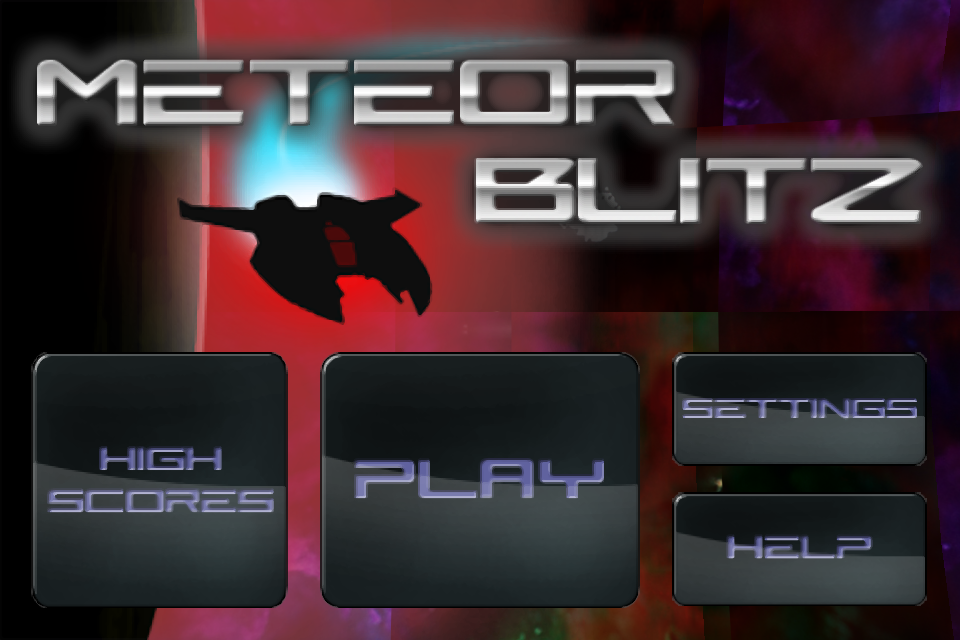
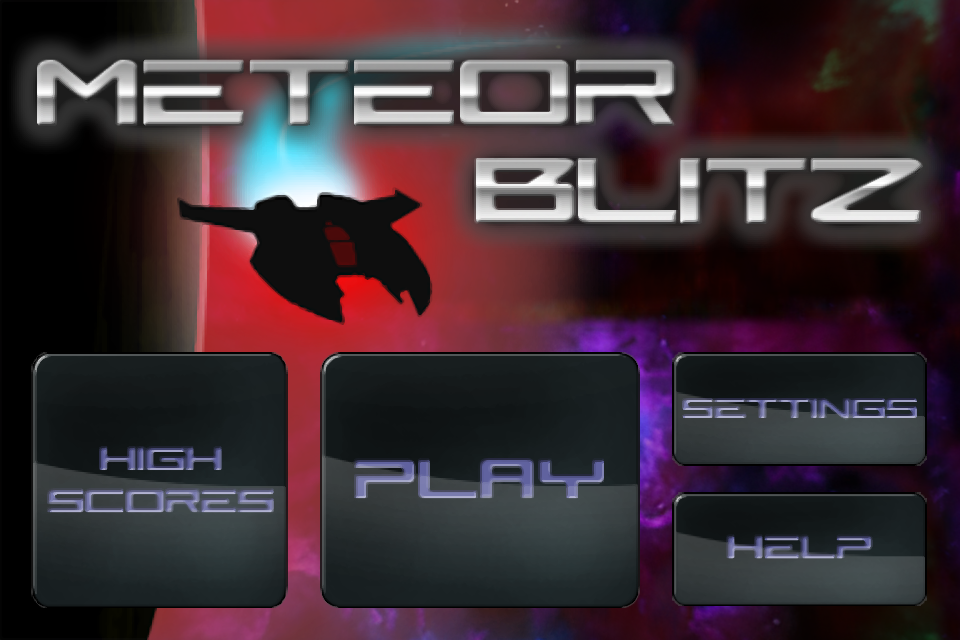
fix: seamless backdrop textures, controller focus and run-end name entry

diff --git a/src/main.rs b/src/main.rs
@@ -201,6 +201,7 @@ async fn load_menu_assets() -> MenuAssets {
         space: load_texture_file(&base).await,
         fog: load_texture_file(&decal).await,
         horizon: load_ui("horizon").await,
+        white: Texture2D::from_rgba8(1, 1, &[255, 255, 255, 255]),
     };
     for tex in [&menu.space, &menu.fog] {
         tex.set_filter(FilterMode::Linear);
@@ -287,7 +288,6 @@ fn build_menu(kind: MenuKind, ui: &Ui, progress: &Progress, fade_backdrop: bool)
             ui["labelSelectMode"].clone(),
             0.0,
             vec![
-                back(2),
                 button(
                     ui,
                     "buttonArcade",
@@ -308,6 +308,7 @@ fn build_menu(kind: MenuKind, ui: &Ui, progress: &Progress, fade_backdrop: bool)
                     128.0,
                     1,
                 ),
+                back(2),
             ],
             fade_backdrop,
         ),
@@ -321,7 +322,7 @@ fn build_menu(kind: MenuKind, ui: &Ui, progress: &Progress, fade_backdrop: bool)
                 (176.5, 185.0, 127.0),
                 (320.0, 185.0, 130.0),
             ];
-            let mut buttons = vec![back(7)];
+            let mut buttons = Vec::new();
             for (i, (x, y, w)) in slots.into_iter().enumerate() {
                 let world = i + 1;
                 let unlocked = i == 0 || progress.unlocked >= i * 5;
@@ -341,6 +342,7 @@ fn build_menu(kind: MenuKind, ui: &Ui, progress: &Progress, fade_backdrop: bool)
                     if unlocked { world as u8 } else { 0 },
                 ));
             }
+            buttons.push(back(7));
             MenuScreen::new(ui["labelSelectWorld"].clone(), -9.0, buttons, fade_backdrop)
         }
         MenuKind::Stage(world) => {
@@ -351,7 +353,7 @@ fn build_menu(kind: MenuKind, ui: &Ui, progress: &Progress, fade_backdrop: bool)
                 (100.0, 185.0),
                 (250.0, 185.0),
             ];
-            let mut buttons = vec![back(6)];
+            let mut buttons = Vec::new();
             for (i, (x, y)) in slots.into_iter().enumerate() {
                 let stage = i + 1;
                 let unlocked = i == 0 || progress.unlocked >= world * 5 + i;
@@ -371,6 +373,7 @@ fn build_menu(kind: MenuKind, ui: &Ui, progress: &Progress, fade_backdrop: bool)
                     if unlocked { stage as u8 } else { 0 },
                 ));
             }
+            buttons.push(back(6));
             MenuScreen::new(ui["labelSelectStage"].clone(), -9.0, buttons, fade_backdrop)
         }
         // Tutorial page: the original's control diagram (`keyboard.png`, the
@@ -382,9 +385,9 @@ fn build_menu(kind: MenuKind, ui: &Ui, progress: &Progress, fade_backdrop: bool)
             ui["labelSelectMode"].clone(),
             0.0,
             vec![
-                back(2),
                 button(ui, "buttonArcade", "buttonArcadeDown", 47.0, 118.0, 175.0, 128.0, 0),
                 button(ui, "buttonSurvival", "buttonSurvivalDown", 258.0, 118.0, 175.0, 128.0, 1),
+                back(2),
             ],
             fade_backdrop,
         ),
@@ -401,9 +404,9 @@ fn build_menu(kind: MenuKind, ui: &Ui, progress: &Progress, fade_backdrop: bool)
                 ui[label].clone(),
                 0.0,
                 vec![
-                    back(6),
                     button(ui, "buttonLocal", "buttonLocalDown", 16.0, 258.0, 126.0, 54.0, 1),
                     button(ui, "buttonGlobal", "buttonGlobalDown", 338.0, 258.0, 126.0, 54.0, 2),
+                    back(6),
                 ],
                 fade_backdrop,
             )
@@ -718,10 +721,18 @@ async fn main() {
                 "scores-survival" => MenuKind::ScoresTable(1, false),
                 "scores-global" => MenuKind::ScoresTable(0, true),
                 "main" => MenuKind::Main,
+                "world" => MenuKind::World,
+                "stage" => MenuKind::Stage(0),
                 _ => MenuKind::Main,
             };
             screen = Screen::Menu(kind);
             menu_screen = build_menu(kind, &ui, &progress, true);
+            // MB_FOCUS=<n> shows the controller focus frame in captures.
+            if let Ok(v) = std::env::var("MB_FOCUS") {
+                if let Ok(i) = v.parse::<usize>() {
+                    menu_screen.set_focus(Some(i));
+                }
+            }
         }
     }
     // MB_PAUSE opens a popup for screenshot runs.
@@ -999,7 +1010,14 @@ async fn main() {
                                     ));
                                 }
                             }
-                        } else if scores.qualifies(run.survival, run.score) {
+                        } else if {
+                            // The name step belongs to the end of a run, not
+                            // to a stage clear that continues. Asking after
+                            // every stage interrupted the run mid-play.
+                            let run_ends = !run.cleared
+                                || game.as_ref().is_some_and(|g| g.next_stage().is_none());
+                            run_ends && scores.qualifies(run.survival, run.score)
+                        } {
                             screen = Screen::NameEntry(NameEntry::new(run.score));
                             pending = Some(run);
                         } else {

diff --git a/tools/upscale4x.py b/tools/upscale4x.py
@@ -2,7 +2,11 @@
 """Upscale the original graphics for the HD render path.
 
 - Terrain/fog/space/horizon textures: Real-ESRGAN x4plus when the ncnn
-  binary is available, otherwise Lanczos, at 2x. The backdrop mesh samples
+  binary is available, otherwise Lanczos, at 2x. The ncnn tool is run with
+  one tile (`-t 1024`): its automatic 400 px tiling left visible seams.
+  The backdrop mesh wraps these textures, so the ESRGAN detail is faded into
+  a periodic Lanczos base near the edges; otherwise the upscaled edges do not
+  match and the repeats show as a checkerboard. The backdrop mesh samples
   these minified across the screen and macroquad builds no mipmaps, so a 4x
   copy (2048x2048) stalls the GPU and drops the frame rate; 2x holds 60 Hz.
 - UI art, sprites and the bitmap font: xBR 4x (pixel-art aware), with the
@@ -73,7 +77,7 @@ def esrgan_upscale(src: Path, dst: Path, esrgan: Path, scale: int) -> bool:
     subprocess.run(
         [str(esrgan), "-i", str(src), "-o", str(dst), "-s", str(scale),
          "-m", str(esrgan.parent / "models"), "-n", "realesrgan-x4plus",
-         "-f", "png"],
+         "-f", "png", "-t", "1024"],
         check=True, stdout=subprocess.DEVNULL, stderr=subprocess.DEVNULL,
     )
     return True
@@ -93,14 +97,58 @@ def verify(src: Path, dst: Path) -> float:
     return float(np.abs(a - b).mean())
 
 
+def tiled3(im: Image.Image) -> Image.Image:
+    """A 3x3 copy: resampling its centre makes the result periodic."""
+    w, h = im.size
+    tiled = Image.new(im.mode, (w * 3, h * 3))
+    for dy in range(3):
+        for dx in range(3):
+            tiled.paste(im, (dx * w, dy * h))
+    return tiled
+
+
+def seamless_base(src: Path, scale: int) -> Image.Image:
+    im = Image.open(src)
+    w, h = im.size
+    big = tiled3(im).resize((w * 3 * scale, h * 3 * scale), Image.LANCZOS)
+    return big.crop((w * scale, h * scale, w * 2 * scale, h * 2 * scale))
+
+
+def blend_seamless(detail: Image.Image, base: Image.Image, band: int) -> Image.Image:
+    """Keeps the ESRGAN detail inside, and the periodic base at the edges."""
+    a = np.asarray(detail.convert("RGBA"), dtype=np.float32)
+    b = np.asarray(base.convert("RGBA"), dtype=np.float32)
+    h, w = a.shape[:2]
+    y = np.arange(h, dtype=np.float32)
+    x = np.arange(w, dtype=np.float32)
+    dx = np.minimum(x, w - 1 - x) / band
+    dy = np.minimum(y, h - 1 - y) / band
+    m = np.clip(np.minimum(dx[None, :], dy[:, None]), 0.0, 1.0)
+    m = (m * m * (3.0 - 2.0 * m))[..., None]
+    out = np.clip(a * m + b * (1.0 - m), 0.0, 255.0).astype(np.uint8)
+    return Image.fromarray(out, "RGBA")
+
+
+def edge_diff(dst: Path) -> float:
+    a = np.asarray(Image.open(dst).convert("RGB"), dtype=np.float32)
+    return float((np.abs(a[:, 0] - a[:, -1]).mean() + np.abs(a[0, :] - a[-1, :]).mean()) / 2.0)
+
+
 def upscale_textures(esrgan: Path) -> None:
     # 2x: the backdrop mesh minifies these and macroquad has no mipmaps.
     src = ROOT / "original" / "textures"
     for p in sorted(src.glob("*.png")):
         dst = OUT / "textures" / p.name
-        if not esrgan_upscale(p, dst, esrgan, 2):
-            lanczos(p, dst, 2)
-        print("texture", p.name, "->", dst.relative_to(ROOT), "diff", round(verify(p, dst), 2))
+        dst.parent.mkdir(parents=True, exist_ok=True)
+        with tempfile.TemporaryDirectory() as tmp:
+            detail = Path(tmp) / "detail.png"
+            if esrgan_upscale(p, detail, esrgan, 2):
+                out = blend_seamless(Image.open(detail), seamless_base(p, 2), 24)
+            else:
+                out = seamless_base(p, 2)
+            out.save(dst, optimize=True)
+        print("texture", p.name, "->", dst.relative_to(ROOT),
+              "diff", round(verify(p, dst), 2), "edge", round(edge_diff(dst), 2))
 
 
 def upscale_dir(src: Path, dst_dir: Path, label: str) -> None:

diff --git a/src/menu.rs b/src/menu.rs
@@ -25,6 +25,8 @@ pub struct MenuAssets {
     pub space: Texture2D,
     pub fog: Texture2D,
     pub horizon: Texture2D,
+    /// A 1x1 white texture for the controller focus frame.
+    pub white: Texture2D,
 }
 
 /// The shared menu backdrop's scroll (`BasicScreen::update` drifts it 50/s).
@@ -93,6 +95,11 @@ impl MenuScreen {
             pressed: None,
             focus: None,
         }
+    }
+
+    /// Sets the controller focus, e.g. for screenshot runs.
+    pub fn set_focus(&mut self, f: Option<usize>) {
+        self.focus = f;
     }
 
     /// Advances the transition and returns the event of a button pressed
@@ -172,7 +179,46 @@ impl MenuScreen {
             let tex = if lit { &b.down } else { &b.up };
             draw_quad(tex, b.rect.x, b.rect.y, 1.0, self.fx.z, color);
         }
+        // The original was touch-only; the port adds controller focus, so it
+        // has to be visible. Some screens (world/stage) reuse one texture for
+        // up and down, where the pressed frame alone shows nothing.
+        if let Some(f) = self.focus {
+            if let Some(b) = self.buttons.get(f) {
+                let c = Color::new(1.0, 1.0, 1.0, 0.7 * self.fx.alpha);
+                frame(canvas, assets, b.rect.x, b.rect.y, b.rect.w, b.rect.h, self.fx.z, c);
+            }
+        }
     }
+}
+
+/// A 1 px selection frame, matching the pause popup's controller selection.
+fn frame(
+    canvas: &Canvas,
+    assets: &MenuAssets,
+    x: f32,
+    y: f32,
+    w: f32,
+    h: f32,
+    z: f32,
+    color: Color,
+) {
+    let quad = |qx: f32, qy: f32, qw: f32, qh: f32| {
+        canvas.draw_triangles(
+            vec![
+                Vertex::new(qx, qy, z, 0.0, 0.0, color),
+                Vertex::new(qx + qw, qy, z, 1.0, 0.0, color),
+                Vertex::new(qx + qw, qy + qh, z, 1.0, 1.0, color),
+                Vertex::new(qx, qy + qh, z, 0.0, 1.0, color),
+            ],
+            vec![0, 1, 2, 0, 2, 3],
+            Some(&assets.white),
+            false,
+        );
+    };
+    quad(x, y, w, 1.0);
+    quad(x, y + h - 1.0, w, 1.0);
+    quad(x, y, 1.0, h);
+    quad(x + w - 1.0, y, 1.0, h);
 }
 
 /// `BasicScreen` state: the fade/fly-in on entry and fade-out on exit.

diff --git a/AGENTS.md b/AGENTS.md
@@ -38,14 +38,14 @@ Done (faithful to the binary unless noted):
 - Deliberate change from the original: the planet backdrop scrolls at the play plane's screen speed, so rocks stay glued to the ground (`gfx::glued_scroll`). The original's rate let them slide.
 - Performance: the loop is paced at 60 Hz (the original's simulation rate); macOS controller polling no longer posts a LaunchServices KVO notification every frame.
 - Rendering: the offscreen canvas renders at the window's fitted resolution (1:1 blit) instead of upscaling the original 320x480 framebuffer; `MB_RENDER_SCALE` pins it (1 keeps emulator comparisons exact). The bitmap font uses nearest filtering so glyphs stay crisp above 480x320; `MB_FONT_FILTER=linear` opts out.
-- HD art (desktop): 4x sprites/UI/font atlas and 2x terrain textures from `tools/upscale4x.py`, loaded by default; `MB_HD=0` loads the originals and is what emulator-frame comparisons use. The web build keeps the originals (the 4x set is ~79 MB). Terrain stays at 2x because macroquad builds no mipmaps: sampling 2048x2048 backdrops dropped the frame rate to ~46-57 fps, while 2x holds 60 Hz (draw 0.2 ms).
+- HD art (desktop): 4x sprites/UI/font atlas and 2x terrain textures from `tools/upscale4x.py`, loaded by default; `MB_HD=0` loads the originals and is what emulator-frame comparisons use. The web build keeps the originals (the 4x set is ~79 MB). Terrain stays at 2x because macroquad builds no mipmaps: sampling 2048x2048 backdrops dropped the frame rate to ~46-57 fps, while 2x holds 60 Hz (draw 0.2 ms). The backdrop shader wraps (`fract`) these textures, so `upscale4x.py` fades the ESRGAN detail into a periodic Lanczos base near the edges and runs the ncnn tool in one tile; raw ESRGAN output does not tile and showed as a checkerboard grid.
 - Web build verified 2026-10-29 with `tools/web_screenshot.mjs` (headless Chrome over CDP): at 480x320 the menu buttons differ from the native `MB_HD=0` build by 0.14-0.35 mean abs (the backdrop differs only in scroll phase), and clicking through Play > Arcade > World 1 > Stage 1 renders gameplay with the sprite/terrain assets loaded. Use real time, not `--virtual-time-budget`: virtual time leaves the first frames black.
 - Stage advance keeps the run: `Play::advance_stage` starts the next stage in the same screen, carrying score, rings, upgrade points, upgrades, lives, bombs and multiplier, like the original's `GameScreen::handleEvent` next-stage case; only the stage's world state restarts.
 
 Approximations / not yet faithful:
 - Pause buttons use the original `DynamicButton` nine-slice metrics (5 px corners, 16 px edges, 16x16 centre stretched between them) and a 1x `ngage` atlas with linear filtering at the measured 0.54 scale and +1 px offset, which matches the emulator's rasterised label textures far better than the previous 0.4 nearest quads (button-region diff sum 55.8 vs 80.3; whole pause frame 13.1 vs 14.1 against `frame_00030.png`). The engine's per-label atlas is still not reproduced, so glyph shapes differ slightly; per-button scale fits did not beat the single fixed scale. Sliders use the original three-line track and the 25x25 `peg.png` knob at the decompiled offset. Panel bands and rules match the decompiled colours and alpha (rules are horizontal gradients at popup alpha).
 - `Settings` (music, effects, flip, shake, boost, bomb, auto pause/gravity/upgrade) now persist to `settings.txt`, matching `PausePopup::save/load`; a first launch writes the defaults, and changes are written through as they are made.
-- High-score tables keep local arcade and survival rows in `scores.txt`. A run that makes the table opens `labelEnterName` first (typed letters/digits, up to eight; Escape keeps `PLAYER`), and the Global tab reports that the leaderboard is offline, since the original's Game Center server is gone.
+- High-score tables keep local arcade and survival rows in `scores.txt`. When a run ends (game over, or the final stage cleared) and makes the table, `labelEnterName` opens first (typed letters/digits, up to eight; Escape keeps `PLAYER`); a stage clear that continues does not interrupt the run. The Global tab reports that the leaderboard is offline, since the original's Game Center server is gone.
 - The HELP page shows the original control diagram (`keyboard.png`) with the caption block (`captions.png`) below it. In game, the tutorial hints (`Tutorial::canShow*`) show `captions.png` once per session when the player first scores, reaches multiplier 2, uses a bomb, or loses a life.
 - Menu fidelity, measured with `tools/compare_frame.py` against `original/screenshots/emu/main_menu.png`: the four main-menu buttons are pixel-exact (mean abs diff 0.04-0.10). The backdrop uses the original `space4deep`+`fogRed` textures and the decompiled curved mesh; the menu mesh's texture axes are swapped to match the frame (u=y, v=x, with the scroll components), giving a best whole-frame diff of 7.5 (was 7.8). The residual is the emulator's unknown scroll phase and the PVRTC decode. The play-plane backdrop keeps the glued ground-scroll mapping.
 
@@ -53,7 +53,7 @@ Controls:
 - Keyboard and mouse: WASD moves, left mouse fires toward the cursor, Space boosts, right mouse or B bombs, Q or the wheel switches weapon.
 - Gravity gun: double-click, or E, while firing.
 - Pause: Esc opens; arrows/WASD move the selection, Enter/A activates, Esc/B goes back; mouse clicks activate items.
-- Controller menus: the D-pad and the left stick move the selection (the stick steps once per push and repeats while held); A activates, B backs out.
+- Controller menus: the D-pad and the left stick move the selection (the stick steps once per push and repeats while held); A activates, B backs out. The focused button is outlined with a 1 px frame, since the original was touch-only and some screens reuse one texture for the up/down states.
 - Game controller: mapped in `src/pad.rs`. Windows reads it through gilrs's XInput backend (verified 2026-10-20: A, B, X, Y, LB, RB, LT, RT, D-pad, both sticks full range; View and Start not yet pressed in a logged run). The default WGI backend dropped most input from the Bluetooth LE pad, and its Drop failed fast on window close; `Gilrs` is kept in `ManuallyDrop`.
 - macOS reads pads through Apple's GameController framework. Verified 2026-10-28 with the Xbox Series controller over USB (045e:0b12): left and right sticks full range, A, B, X, Y, LB, RB, LT, RT, D-pad, Start and View all reach `src/pad.rs` (`MB_PAD_LOG=1`). The earlier "all values zero" result was a sleeping pad or a run loop that never turned, not a driver problem: the HID reports stream and the framework reports live values once the main queue is pumped.
 
@@ -79,6 +79,7 @@ Test hooks (env):
 - `MB_MENU=<main|mode|help|scores|scores-arcade|scores-survival|scores-global>` opens a menu screen directly, for captures.
 - `MB_DUMP_SETTINGS=1` prints the settings loaded from `settings.txt` and exits, for checking persistence without a GUI.
 - `MB_NAME=<name>` confirms the `labelEnterName` field for scripted runs; `MB_MENU=name` opens it directly.
+- `MB_FOCUS=<n>` shows the controller focus frame on the nth menu button in `MB_MENU` captures.
 - `MB_TUTORIAL=1` keeps a tutorial hint up from the start, for captures.
 - `MB_AUTONEXT=1` advances a cleared stage at once (skipping the results/upgrade popups) and prints `advance:` with the carried score, rings, points and upgrades; `MB_BUY=<0-5>` buys that upgrade first, to check that purchases carry.
 - `cargo test` covers the boss patterns, the gravity gun, the ground scroll and stick menu navigation.

diff --git a/worklog/2026-10-29.md b/worklog/2026-10-29.md
@@ -85,3 +85,35 @@ The web build had never been checked past "it compiles". No touchHLE here, so th
 - Windows pad run on `xamd4090`.
 
 Blockers: none.
+
+## Regression fixes: backdrop tiling, controller focus, name entry
+
+Reported after playing the HD build: a checkerboard on the background, no visible controller selection in menus, and a name prompt interrupting a stage clear.
+
+### Backdrop checkerboard
+
+- The backdrop shader wraps the layers (`fract(uv + Scroll)`), so the textures must tile. The ESRGAN output did not: edge continuity was 16-125 mean abs versus 0.5-8 for the originals, and the ncnn tool's automatic 400 px tiling left internal seams at x/y 399/799.
+- `tools/upscale4x.py`: the ncnn tool now runs one tile (`-t 1024`), and the ESRGAN detail is blended into a periodic Lanczos base (a 3x3 tiled resize cropped at the centre) over a 24 px edge band. A Lanczos fallback is also periodic.
+- Verified on the regenerated set: edge diffs L-R/T-B 0.38-3.74 for every texture except clouds (9.96/13.62, against the original's own 20.25/30.79); no internal peaks above 5x the median. `MB_FPS=0 MB_PROF` still holds 60 fps with draw 0.14 ms.
+
+### Controller focus in menus
+
+- The menus drew the focused button's "down" texture, but the world/stage screens reuse one texture for up and down, so nothing showed. The original was touch-only; the port's focus needs an indicator.
+- `MenuScreen::draw` now draws the pause popup's 1 px white frame around the focused button, and Back is the last entry in each menu so the first stick/D-pad press lands on the first option (Play/Arcade/World 1/Stage 1) instead of Back.
+- Added `MB_FOCUS=<n>` for captures. Verified: with `MB_MENU=main MB_FOCUS=1` the changed pixels are exactly the High Scores button border (bbox 31,352-287,607 at 960x640), 58k pixels.
+
+### Name entry timing
+
+- The trigger checked `scores.qualifies` for every `Play::result()`, so clearing any stage opened `labelEnterName` mid-run. It now opens only when the run ends: game over, or the final stage cleared with no next stage.
+- Verified: `MB_START=1.1 MB_WAVE=99 MB_AUTOFIRE=1 MB_FPS=60 MB_NAME=BOB` now reports `shot: pause true name entry false` and leaves `scores.txt` unchanged. The idle game-over run still reaches the name step (checked separately).
+
+### Changed
+
+- `tools/upscale4x.py`, `assets/4x/textures/*`, `src/menu.rs`, `src/main.rs`, `AGENTS.md`, `README.md`; rebuilt `target/MeteorBlitz.app`.
+
+### Next
+
+- Player retest of the rebuilt bundle (quit and relaunch: a running window keeps the textures it loaded at startup).
+- touchHLE frames for the clear/game-over/upgrade pages; Windows pad run.
+
+Blockers: none.

diff --git a/README.md b/README.md
@@ -15,7 +15,7 @@ Playable end to end:
 - 30 arcade stages (6 worlds × 5) and survival mode, with the original wave tables, stage clear, unlock progression and boss.
 - Every enemy kind from the binary: rocks, depots, mines, shy guys, snakes, arrows, towers, seekers, lobbers and the boss.
 - Cannon, fire and laser weapons, gravity gun, bombs, boost, rings, multiplier, power-ups and the upgrade shop.
-- Menus and the pause/controls/upgrade/clear/game-over popups, ported from `PausePopup`; settings persist across launches; local high-score tables with name entry; HELP/tutorial captions and in-game hints.
+- Menus and the pause/controls/upgrade/clear/game-over popups, ported from `PausePopup`; settings persist across launches; local high-score tables with name entry when a run ends; HELP/tutorial captions and in-game hints.
 - Keyboard/mouse and game controller input (Xbox pads on macOS through GameController and on Windows through XInput). The web build has no controller backend yet.
 - Native-resolution rendering: the canvas renders at the window's fitted resolution with a 1:1 blit, and the pixel font uses nearest filtering. The original 480×320 framebuffer stays available via `MB_RENDER_SCALE=1` for emulator comparisons.
 - HD art on desktop: 4x sprites, UI and font atlas, and 2x terrain textures, generated from the originals by `tools/upscale4x.py` (xBR for pixel art, Real-ESRGAN for the terrain). `MB_HD=0` selects the untouched originals, which is what the emulator-frame comparisons use; the web build stays on the originals.
